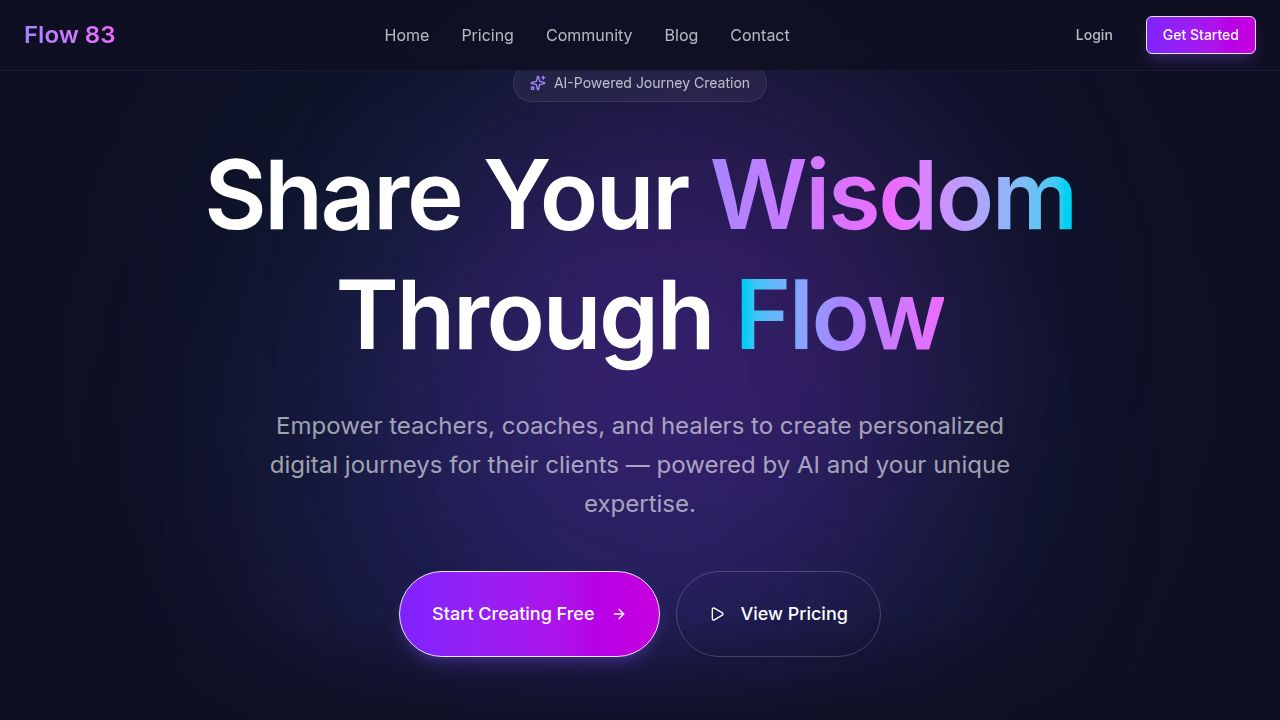
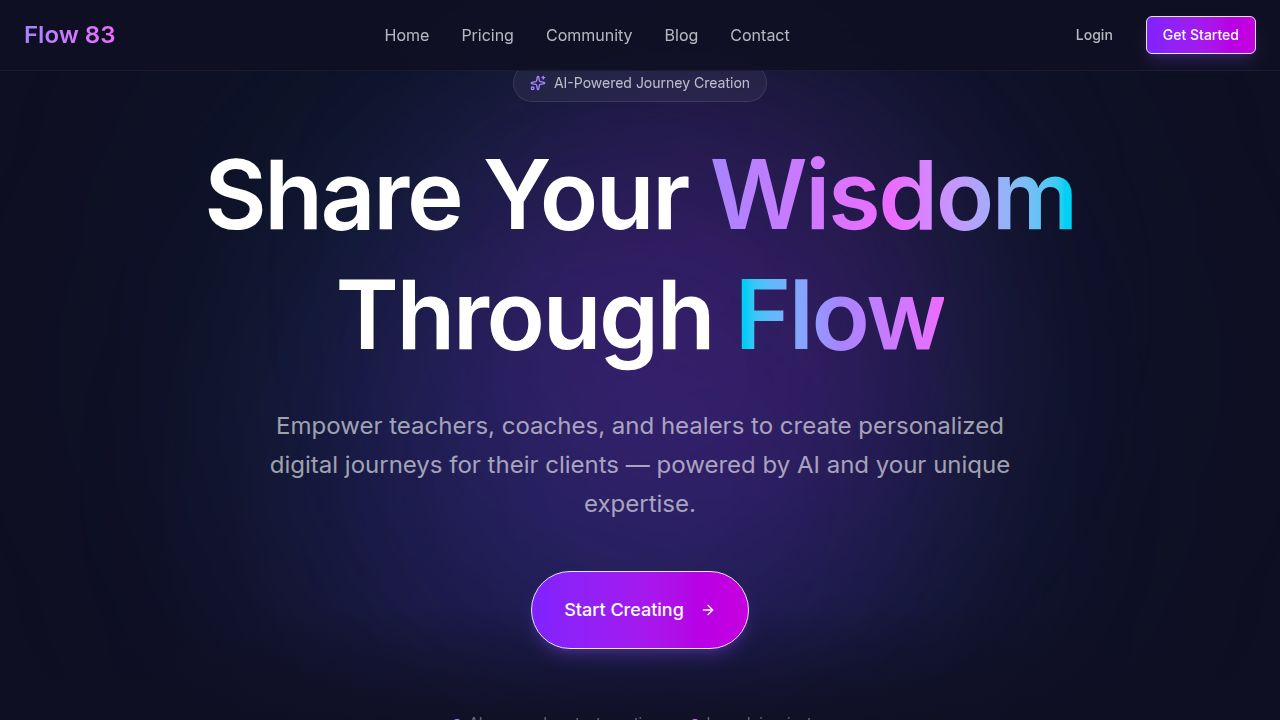
Remove pricing button from landing page hero section
Removes the "View Pricing" button and adjusts button alignment in the Hero component of the landing page.

Replit-Commit-Author: Agent
Replit-Commit-Session-Id: 3defac9a-9f37-45f6-89e7-9c773f08998c
Replit-Commit-Checkpoint-Type: full_checkpoint
Replit-Commit-Event-Id: 8d4ddc0a-8d95-4362-983b-de036b917bb2
Replit-Commit-Screenshot-Url: https://storage.googleapis.com/screenshot-production-us-central1/f55a28a1-d139-4627-b998-82a8821ff886/3defac9a-9f37-45f6-89e7-9c773f08998c/bcmkZ8w
Replit-Helium-Checkpoint-Created: true

Changed region(s): [[0.3125, 0.7944, 0.6562, 0.9472]]

diff --git a/client/src/components/landing/Hero.tsx b/client/src/components/landing/Hero.tsx
@@ -35,7 +35,7 @@ const Hero = () => {
             powered by AI and your unique expertise.
           </p>
           
-          <div className="flex flex-col sm:flex-row gap-6 justify-center items-center">
+          <div className="flex justify-center">
             <Link href="/dashboard">
               <Button 
                 size="lg" 
@@ -45,9 +45,6 @@ const Hero = () => {
                 Start Creating
                 <ArrowRight className="w-5 h-5 ml-2" />
               </Button>
-            </Link>
-            <Link href="/pricing" className="text-white/60 hover:text-white transition-colors text-sm flex items-center gap-1" data-testid="link-hero-pricing">
-              View Pricing <ArrowRight className="w-4 h-4" />
             </Link>
           </div>
 
